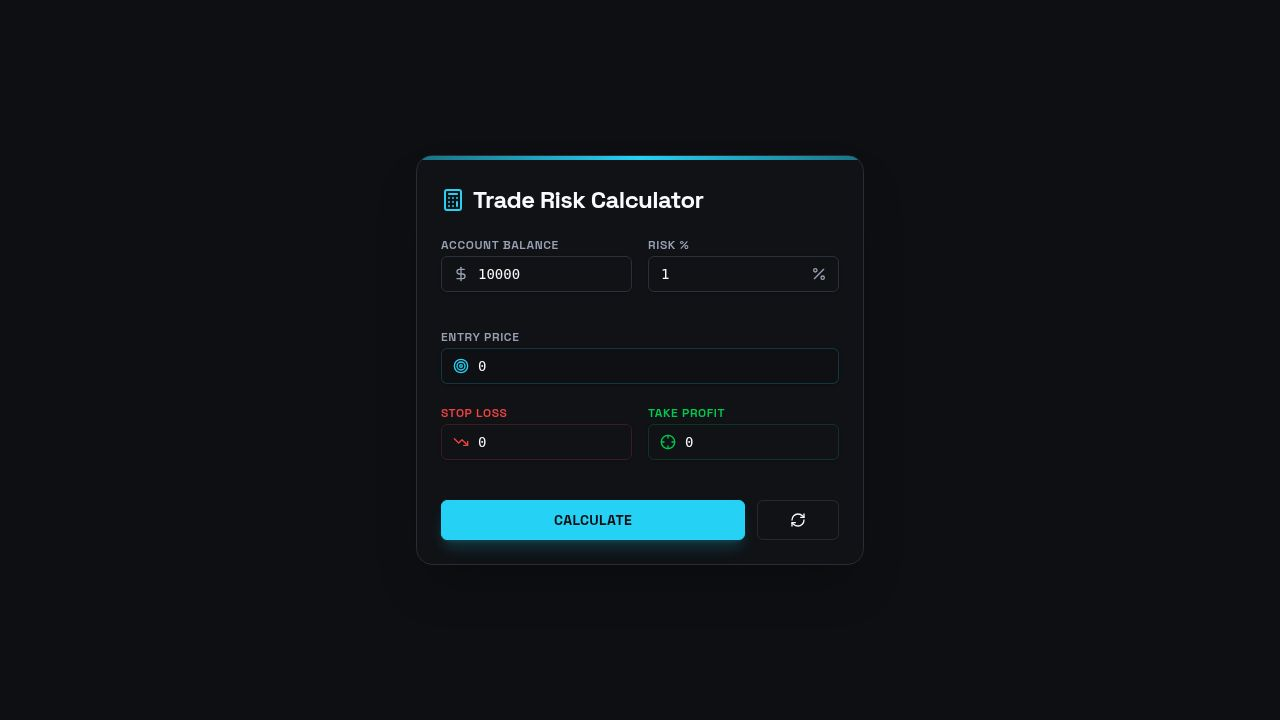
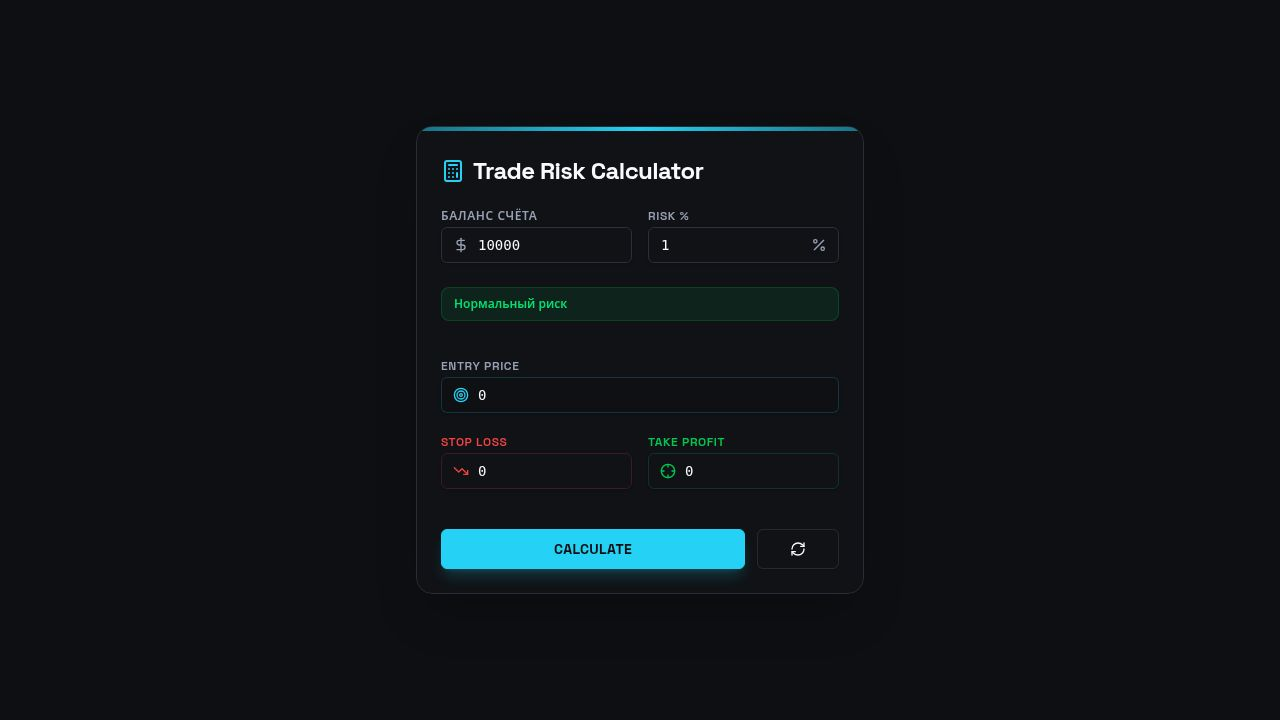
Update the trade risk calculator interface labels to Russian
Translate UI labels in Calculator.tsx from English to Russian, keeping specific trading terms in English.

Replit-Commit-Author: Agent
Replit-Commit-Session-Id: 00e6c71c-a5ea-4e8f-94d3-e2eb4ff02f03
Replit-Commit-Checkpoint-Type: full_checkpoint
Replit-Commit-Event-Id: 9b20637d-cad1-4e57-b141-82a2f6eb0e78
Replit-Commit-Screenshot-Url: https://storage.googleapis.com/screenshot-production-us-central1/bc53ba1b-edef-4bdc-bd39-895a29f68f91/00e6c71c-a5ea-4e8f-94d3-e2eb4ff02f03/2scRYf3
Replit-Helium-Checkpoint-Created: true

diff --git a/artifacts/trade-risk-calc/src/components/Calculator.tsx b/artifacts/trade-risk-calc/src/components/Calculator.tsx
@@ -160,7 +160,7 @@ export function Calculator() {
                 name="entryPrice"
                 render={({ field }) => (
                   <FormItem>
-                    <FormLabel className="text-xs uppercase tracking-wider text-muted-foreground font-semibold">Entry Price</FormLabel>
+                    <FormLabel className="text-xs uppercase tracking-wider text-muted-foreground font-semibold">Цена входа</FormLabel>
                     <FormControl>
                       <div className="relative">
                         <Target className="absolute left-3 top-2.5 h-4 w-4 text-primary" />
@@ -210,7 +210,7 @@ export function Calculator() {
 
             <div className="flex gap-3 pt-4">
               <Button type="submit" size="lg" className="w-full font-bold tracking-wide shadow-primary/20 shadow-lg" data-testid="button-calculate">
-                CALCULATE
+                РАССЧИТАТЬ
               </Button>
               <Button type="button" variant="outline" size="lg" onClick={handleReset} data-testid="button-reset">
                 <RefreshCw className="w-4 h-4" />
@@ -225,7 +225,7 @@ export function Calculator() {
             
             <div className="grid grid-cols-2 gap-y-6 gap-x-4">
               <div>
-                <p className="text-xs uppercase tracking-wider text-muted-foreground font-semibold mb-1">Position Size</p>
+                <p className="text-xs uppercase tracking-wider text-muted-foreground font-semibold mb-1">Размер позиции</p>
                 <p className="text-3xl font-mono font-bold text-foreground" data-testid="result-position-size">
                   {results.positionSize.toLocaleString(undefined, { maximumFractionDigits: 4 })}
                 </p>
@@ -233,21 +233,21 @@ export function Calculator() {
               </div>
               
               <div>
-                <p className="text-xs uppercase tracking-wider text-muted-foreground font-semibold mb-1">Risk / Reward</p>
+                <p className="text-xs uppercase tracking-wider text-muted-foreground font-semibold mb-1">Риск / Прибыль</p>
                 <p className="text-3xl font-mono font-bold text-primary" data-testid="result-risk-reward">
                   1 : {results.riskReward.toFixed(2)}
                 </p>
               </div>
 
               <div>
-                <p className="text-xs uppercase tracking-wider text-destructive font-semibold mb-1">You Risk</p>
+                <p className="text-xs uppercase tracking-wider text-destructive font-semibold mb-1">Вы рискуете</p>
                 <p className="text-2xl font-mono font-bold text-destructive" data-testid="result-dollar-risk">
                   ${results.dollarRisk.toLocaleString(undefined, { minimumFractionDigits: 2, maximumFractionDigits: 2 })}
                 </p>
               </div>
 
               <div>
-                <p className="text-xs uppercase tracking-wider text-green-500 font-semibold mb-1">Potential Profit</p>
+                <p className="text-xs uppercase tracking-wider text-green-500 font-semibold mb-1">Потенциальная прибыль</p>
                 <p className="text-2xl font-mono font-bold text-green-500" data-testid="result-potential-profit">
                   ${results.potentialProfit.toLocaleString(undefined, { minimumFractionDigits: 2, maximumFractionDigits: 2 })}
                 </p>